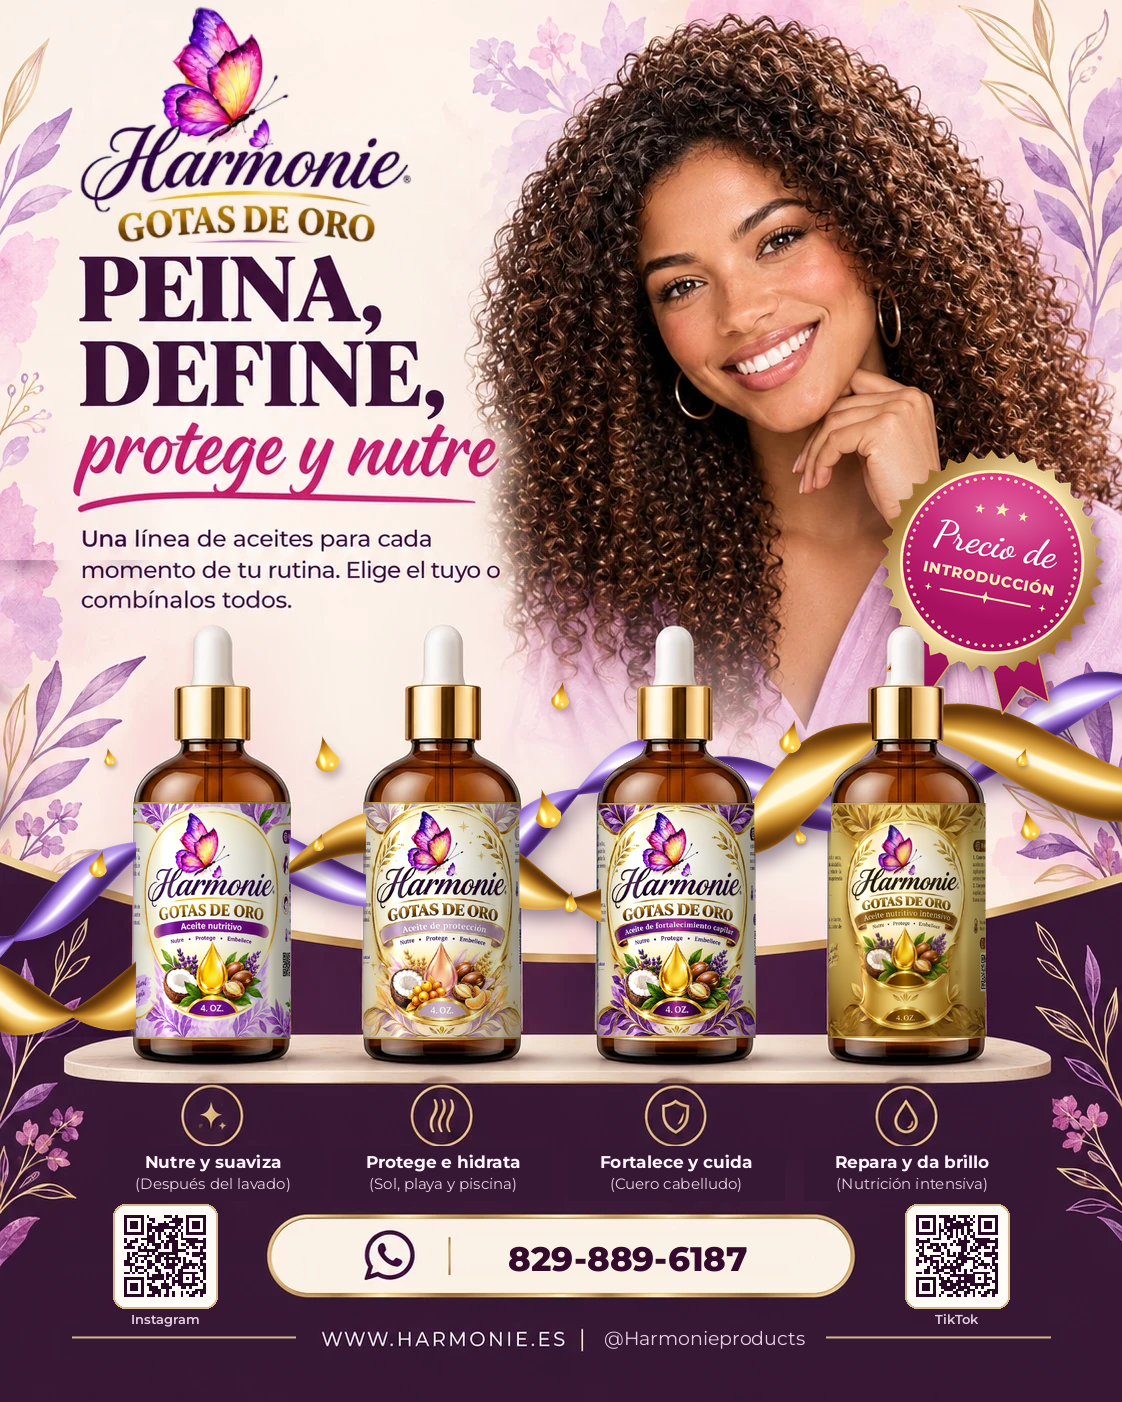
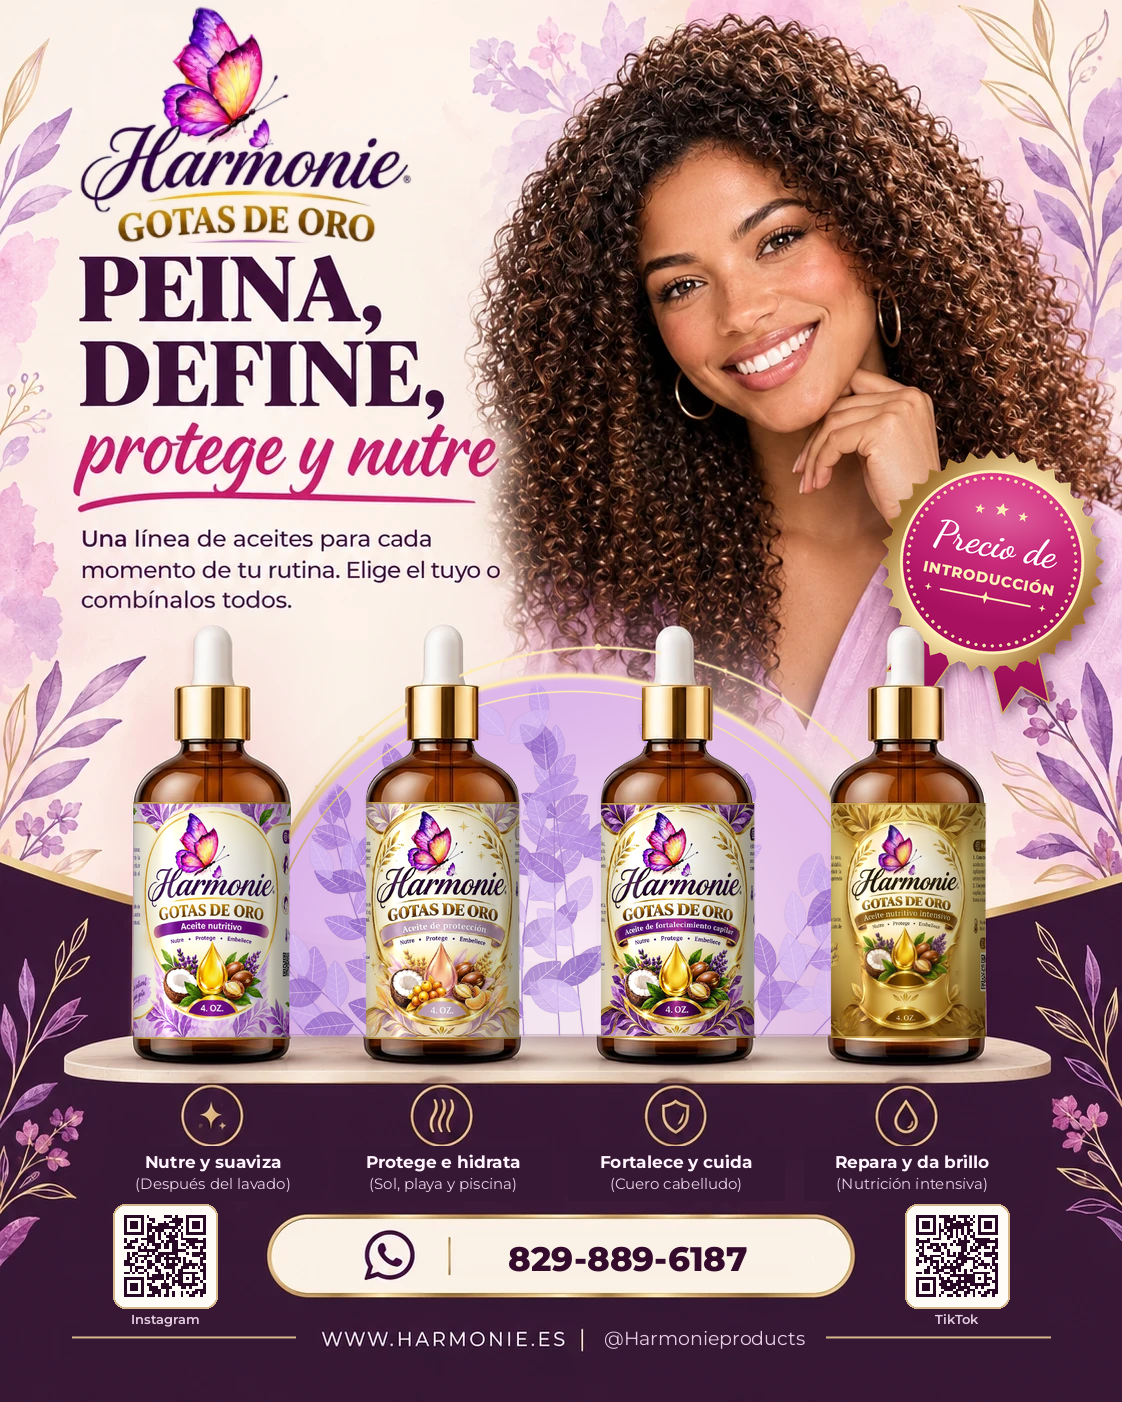
Flyer Harmonie: versión final con media luna lavanda, hojas lila y aros dorados
Claude-Session: https://claude.ai/code/session_01LAgBEXsmMrJHrQae13ZNSx

diff --git a/flyer/decor.py b/flyer/decor.py
@@ -1,7 +1,7 @@
 """Second pass over the flyer: real logo, a background behind the bottles (variant A/B/C), and the
 'Precio de introducción' seal.  Runs build.py first, so the whole flyer is:
 
-    python3 decor.py [out.png] [A|B|C]   # -> flyer-harmonie.png, variant A
+    python3 decor.py [out.png] [A|B|C]   # -> flyer-harmonie.png, variant C
 """
 import math, os, subprocess, sys, tempfile
 import cv2
@@ -10,7 +10,7 @@ from PIL import Image, ImageDraw, ImageFilter, ImageFont
 
 SRC = 'src'
 OUT = sys.argv[1] if len(sys.argv) > 1 else 'flyer-harmonie.png'
-VARIANT = sys.argv[2] if len(sys.argv) > 2 else 'A'
+VARIANT = sys.argv[2] if len(sys.argv) > 2 else 'C'
 IN = os.path.join(tempfile.mkdtemp(), 'base.png')
 subprocess.run([sys.executable, 'build.py', SRC, IN], check=True)
 GOLD_HI, GOLD, GOLD_LO = (255, 236, 180), (222, 182, 108), (160, 112, 48)
@@ -250,6 +250,71 @@ def glitter():
         comp(flyer, np.full((H, Wd, 3), (255, 248, 222), np.float32), np.clip(m + cv2.GaussianBlur(m, (0, 0), r * 0.8) * 0.7, 0, 1))
 
 
+def leaf_img(length, width, color, s=SS):
+    """One lilac leaf (pointing +x) as an RGBA image, with a pale midrib and side veins."""
+    L, Wl = length * s, width * s
+    img = Image.new('RGBA', (int(L) + 4, int(2 * Wl) + 4), (0, 0, 0, 0))
+    d = ImageDraw.Draw(img)
+    t = np.linspace(0, 1, 40)
+    half = Wl * np.sin(math.pi * t) ** 0.75 * (1 - 0.25 * t)
+    top = [(2 + L * a, 2 + Wl - h) for a, h in zip(t, half)]
+    bot = [(2 + L * a, 2 + Wl + h) for a, h in zip(t[::-1], half[::-1])]
+    edge = tuple(int(c * 0.82) for c in color[:3]) + (color[3],)
+    d.polygon(top + bot, fill=color, outline=edge)
+    vein = (236, 222, 252, int(color[3] * 0.8))
+    d.line([(2, 2 + Wl), (2 + L * 0.96, 2 + Wl)], fill=vein, width=max(1, int(0.9 * s)))
+    for a in np.linspace(0.18, 0.78, 5):
+        x0 = 2 + L * a
+        hh = Wl * math.sin(math.pi * a) ** 0.75 * (1 - 0.25 * a) * 0.8
+        for sg in (-1, 1):
+            d.line([(x0, 2 + Wl), (x0 + L * 0.12, 2 + Wl + sg * hh)], fill=vein, width=max(1, int(0.6 * s)))
+    return img
+
+
+def lilac_leaves(cx, cy, r, disc):
+    """Tone-on-tone sprigs of lilac leaves filling the half-moon, like the labels' leaf pattern."""
+    layer = Image.new('RGBA', (Wd * SS, H * SS), (0, 0, 0, 0))
+    palette = [(150, 100, 204), (172, 128, 222), (196, 162, 236), (132, 86, 192), (214, 186, 244)]
+
+    def put_leaf(x, y, ang, length):
+        col = palette[rng.integers(0, len(palette))] + (int(rng.uniform(150, 230)),)
+        im = leaf_img(length, length * rng.uniform(0.26, 0.34), col)
+        im = im.rotate(-math.degrees(ang), resample=Image.BICUBIC, expand=True)
+        # rotate() keeps the image centre fixed; the leaf base was at the left-middle
+        bx = x * SS - im.width / 2 + math.cos(ang) * (length * SS / 2)
+        by = y * SS - im.height / 2 + math.sin(ang) * (length * SS / 2)
+        layer.alpha_composite(im, (int(bx), int(by)))
+
+    sprigs = 16
+    for k in range(sprigs):
+        bx = cx - r * 0.85 + 2 * r * 0.85 * (k + rng.uniform(0.2, 0.8)) / sprigs
+        ang0 = -math.pi / 2 + (bx - cx) / r * 0.9 + rng.normal(0, 0.12)
+        length = rng.uniform(220, 330)
+        bend = rng.normal(0, 0.25)
+        pts = []
+        for i in range(60):
+            t = i / 59
+            a = ang0 + bend * t
+            if not pts:
+                pts.append((bx, SHELF + 4))
+            px, py = pts[-1]
+            pts.append((px + math.cos(a) * length / 59, py + math.sin(a) * length / 59))
+        ImageDraw.Draw(layer).line([(x * SS, y * SS) for x, y in pts], fill=(140, 96, 190, 200), width=int(1.4 * SS))
+        for j, i in enumerate(range(6, 60, 6)):
+            x, y = pts[i]
+            a = ang0 + bend * i / 59
+            side = 1 if j % 2 else -1
+            put_leaf(x, y, a + side * rng.uniform(0.6, 0.95), rng.uniform(40, 58) * (1 - 0.35 * i / 59))
+        put_leaf(*pts[-1], ang0 + bend, rng.uniform(36, 46))
+    for _ in range(28):                                   # loose leaves filling the upper arc
+        a = rng.uniform(math.pi * 1.08, math.pi * 1.92)
+        rad = rng.uniform(0.45, 0.92) * r
+        put_leaf(cx + rad * math.cos(a), cy + rad * math.sin(a), rng.uniform(0, 2 * math.pi), rng.uniform(34, 52))
+    arr = np.array(layer.resize((Wd, H), Image.LANCZOS), np.float32)
+    inner = smoothstep(r - 4, r - 12, np.hypot(XX - cx, YY - cy))
+    comp(flyer, arr[..., :3], arr[..., 3] / 255 * disc * inner * 0.8)
+
+
 def moon():
     cx, cy, r = 572, 1005, 330
     rr = np.hypot(XX - cx, YY - cy)
@@ -260,6 +325,7 @@ def moon():
     sh = cv2.GaussianBlur(np.roll(disc, (8, 6), (0, 1)), (0, 0), 10) * 0.35
     comp(flyer, np.full((H, Wd, 3), (60, 14, 60), np.float32), sh)
     comp(flyer, fillc, disc * 0.95)
+    lilac_leaves(cx, cy, r, disc)
     gold = lerp(GOLD_HI, GOLD_LO, smoothstep(cy - r, cy, YY))
     for rc, ccx, ccy, w in ((r, cx, cy, 3.0), (r + 22, cx + 26, cy - 6, 1.4), (r - 16, cx, cy, 0.9)):
         ring = np.exp(-((np.hypot(XX - ccx, YY - ccy) - rc) / w) ** 2) * below_shelf
